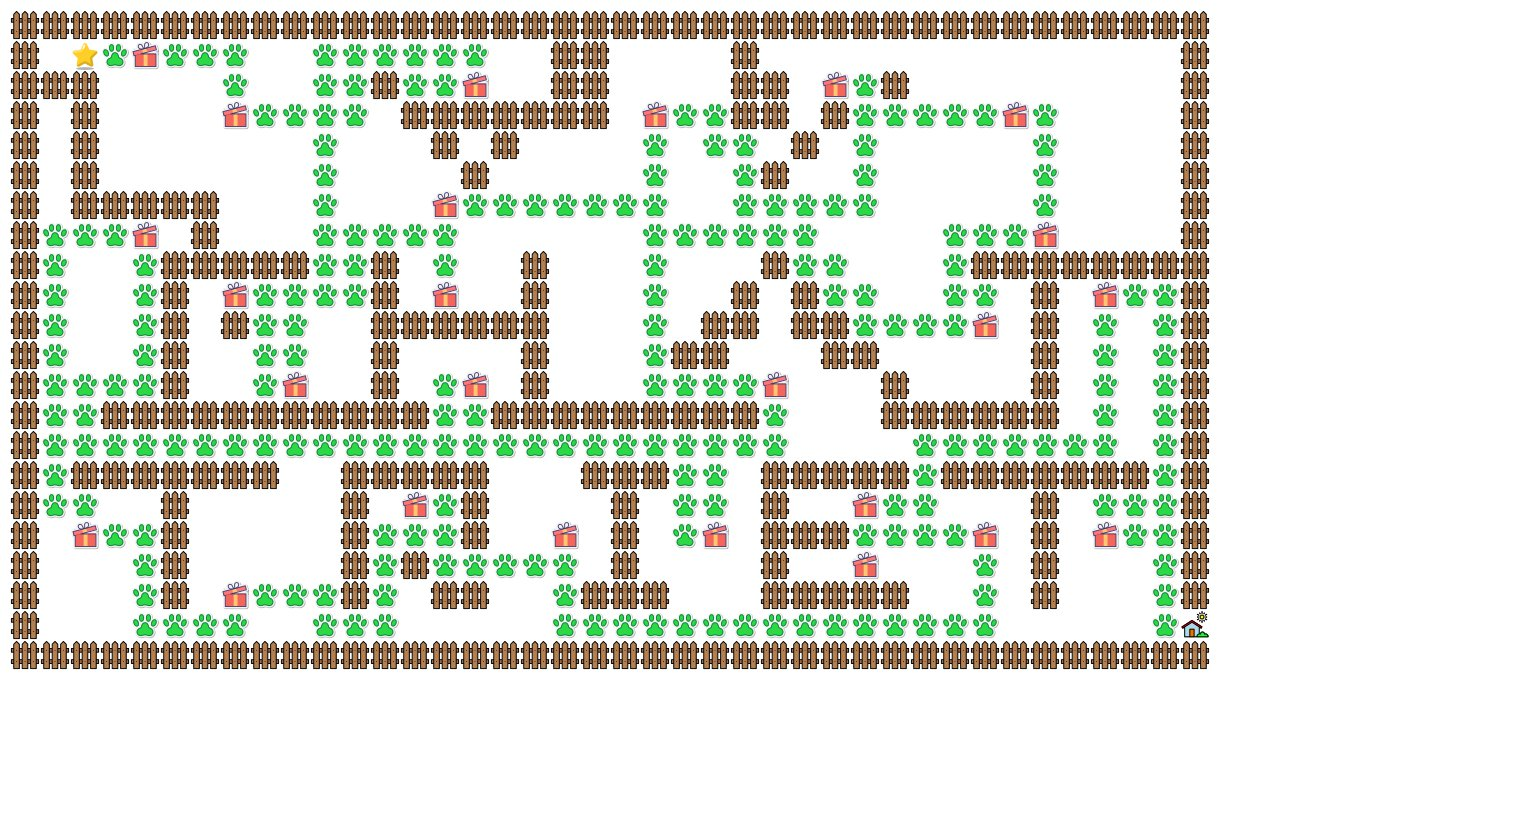
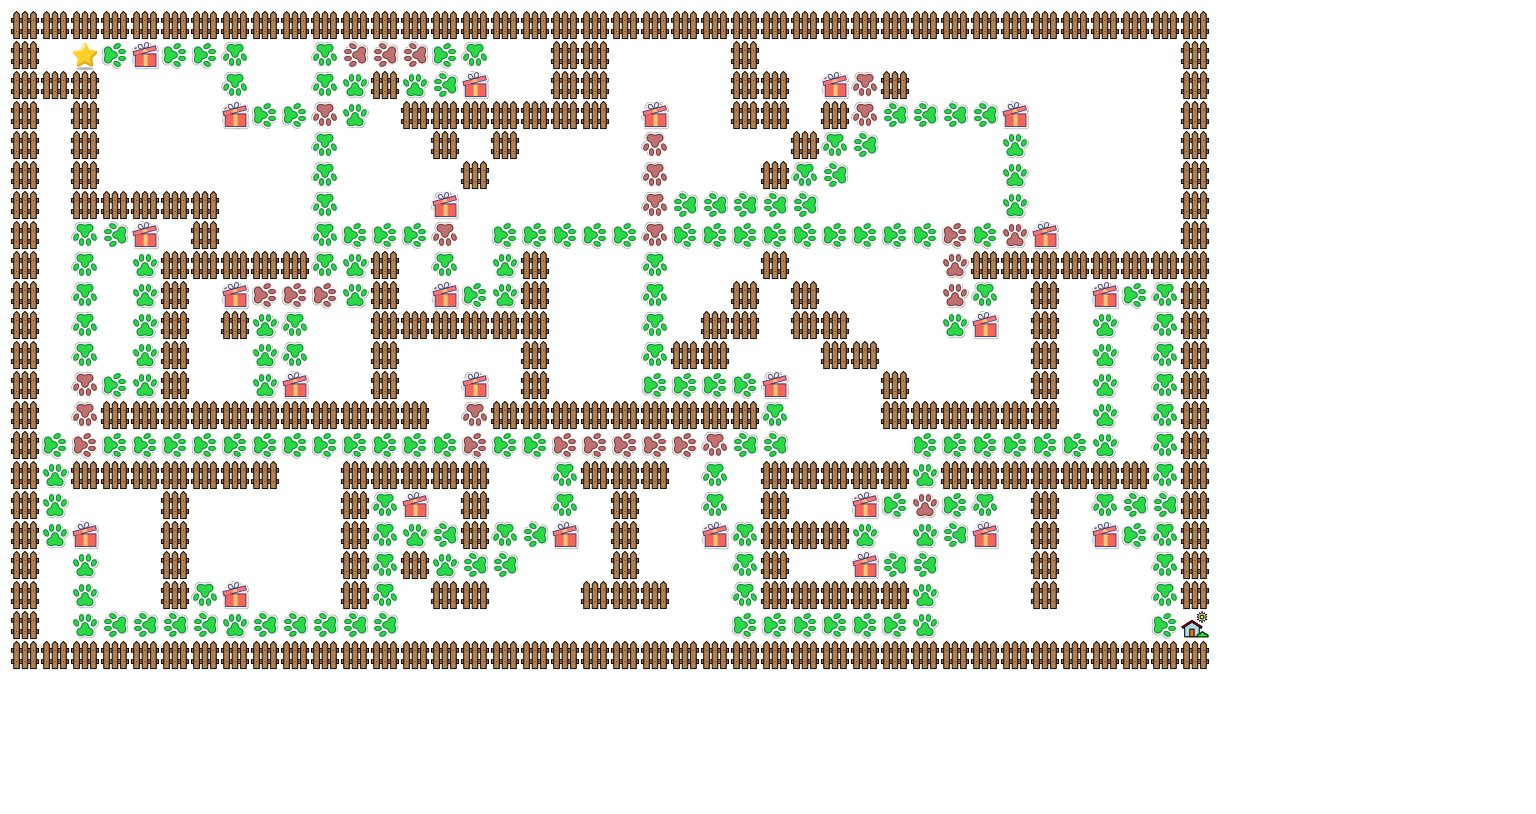
chan

Changed region(s): [[0.0312, 0.2764, 0.7188, 0.7985], [0.0625, 0.0307, 0.6875, 0.4914], [0.6875, 0.3378, 0.7812, 0.7985]]

diff --git a/source/visualize.py b/source/visualize.py
@@ -16,6 +16,8 @@ from DP import *
 from DIJKSTRA import *
 from implement import *
 
+
+
 matrix = []
 BONUS=[]
 explored=[]
@@ -35,7 +37,16 @@ START_IMG = pygame.image.load('./assets/star.png')
 EXIT_IMG = pygame.image.load('./assets/house.png')
 GIFT_IMG = pygame.image.load('./assets/tree.png')
 TIM1_IMG = pygame.image.load('./assets/paw.png')
-TIM2_IMG = pygame.image.load('./assets/cat.png')
+TIM_U_IMG = pygame.image.load('./assets/cat.png')
+TIM_L_IMG = pygame.image.load('./assets/cat_l.png')
+TIM_R_IMG = pygame.image.load('./assets/cat_r.png')
+TIM_D_IMG = pygame.image.load('./assets/cat_d.png')
+
+RETIM_U_IMG = pygame.image.load('./assets/recat_u.png')
+RETIM_L_IMG = pygame.image.load('./assets/recat_l.png')
+RETIM_R_IMG = pygame.image.load('./assets/recat_r.png')
+RETIM_D_IMG = pygame.image.load('./assets/recat_d.png')
+
 CLOSE_IMG = pygame.image.load('./assets/close.png')
 OPEN_IMG = pygame.image.load('./assets/open.png')
 TELEPORT = pygame.image.load('./assets/tele.png')
@@ -142,13 +153,29 @@ def path_finding(dir,alg):
                 matrix[x] = ''.join(tmp)
                 pygame.time.wait(2)
                 pygame.display.update()
-            else:              
-                for node in route:
+            else:    
+                route_footed = []          
+                for i in range(len(route)):
+                    node = route[i]
                     
                     if node == route[-1]:
                         draw_cell_no_delay(node[0], node[1], EXIT_IMG, screen)
+                        break
+                    next_node = route[i+1]
+                    if next_node[0]-node[0]>0:
+                        DRAW_ASSET = TIM_D_IMG if node not in route_footed else RETIM_D_IMG
+                        # direction.append('v') #^
+                    elif next_node[0]-node[0]<0:
+                        DRAW_ASSET = TIM_U_IMG if node not in route_footed else RETIM_U_IMG
+                        # direction.append('^') #v        
+                    elif next_node[1]-node[1]>0:
+                        DRAW_ASSET = TIM_R_IMG if node not in route_footed else RETIM_R_IMG
+                        # direction.append('>')
                     else:
-                        draw_cell_no_delay(node[0], node[1], TIM2_IMG, screen)
+                        DRAW_ASSET = TIM_L_IMG if node not in route_footed else RETIM_L_IMG
+                        # direction.append('<')
+                    draw_cell_no_delay(node[0], node[1], DRAW_ASSET, screen)
+                    
                     if not is_teleport:
                         if node in B:
                             draw_cell_no_delay(node[0], node[1], CLOSE_IMG, screen)
@@ -158,8 +185,7 @@ def path_finding(dir,alg):
                         if node in B_OUT:
                             draw_cell_no_delay(node[0], node[1], TELEPORT_OUT, screen)
 
-
-
+                    route_footed.append(node)
                         
                     pygame.time.wait(70)
                     pygame.display.update()

diff --git a/source/A_Star_lv2.py b/source/A_Star_lv2.py
@@ -124,7 +124,7 @@ def AStar_Lv2(matrix, start, end, bonus_points):
         # if current.state in bonus_points_list:
         for point in bonus_points:
             if (point[0], point[1]) == current.state:
-                print("yes")
+                # print("yes")
                 current.f += point[2]
                 current.g += point[2]
                 if current.state in bonus_points_frontiers:
